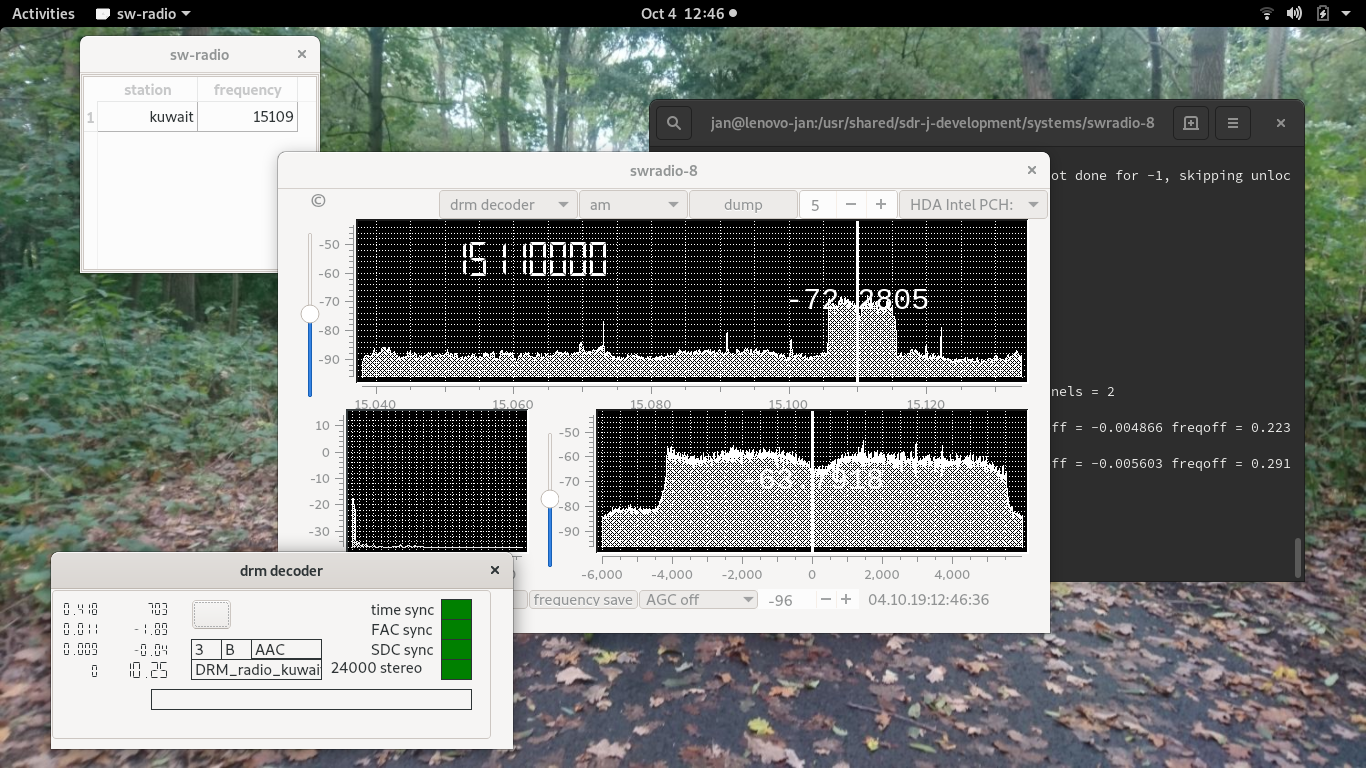
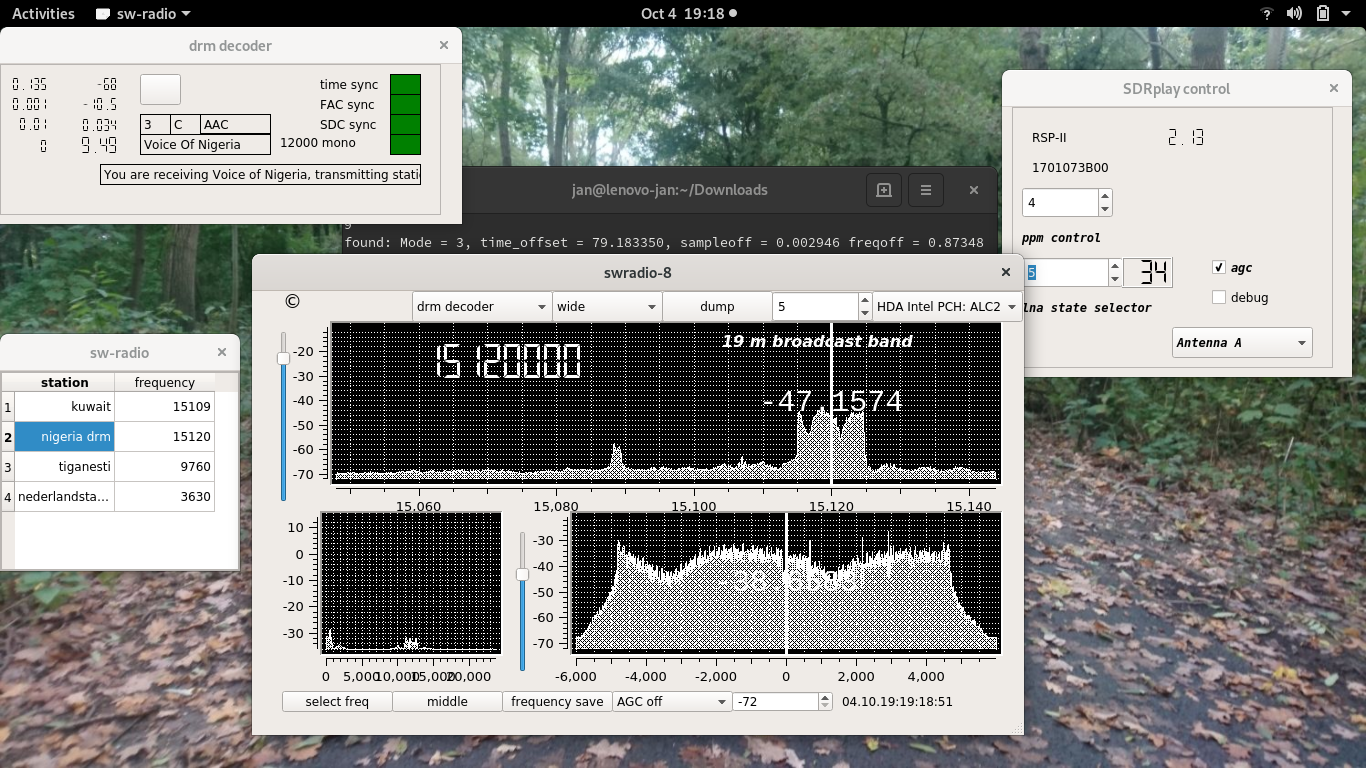
added rtty to the appimage

diff --git a/README.md b/README.md
@@ -14,6 +14,15 @@ this program.)
 
 ![swradio-8](/swradio-picture-1.png?raw=true)
 
+One of the less common decoders is a *drm-decoder*, the picture shows
+the reception of Nigeria. There are not that many drm transmissions,
+but Kuwait, Tiganesti (i.e. Romenia), and Nigeria are receoved very well here.
+
+Classical decoders are - obviously - available as well. Early evening there
+is always - at least here - the "Nederlandstalig amateurnet" is well received.
+
+![swradio-8](/swradio-picture-2.png?raw=true)
+
 ------------------------------------------------------------------------------
 Implemented decoders
 -----------------------------------------------------------------------------
